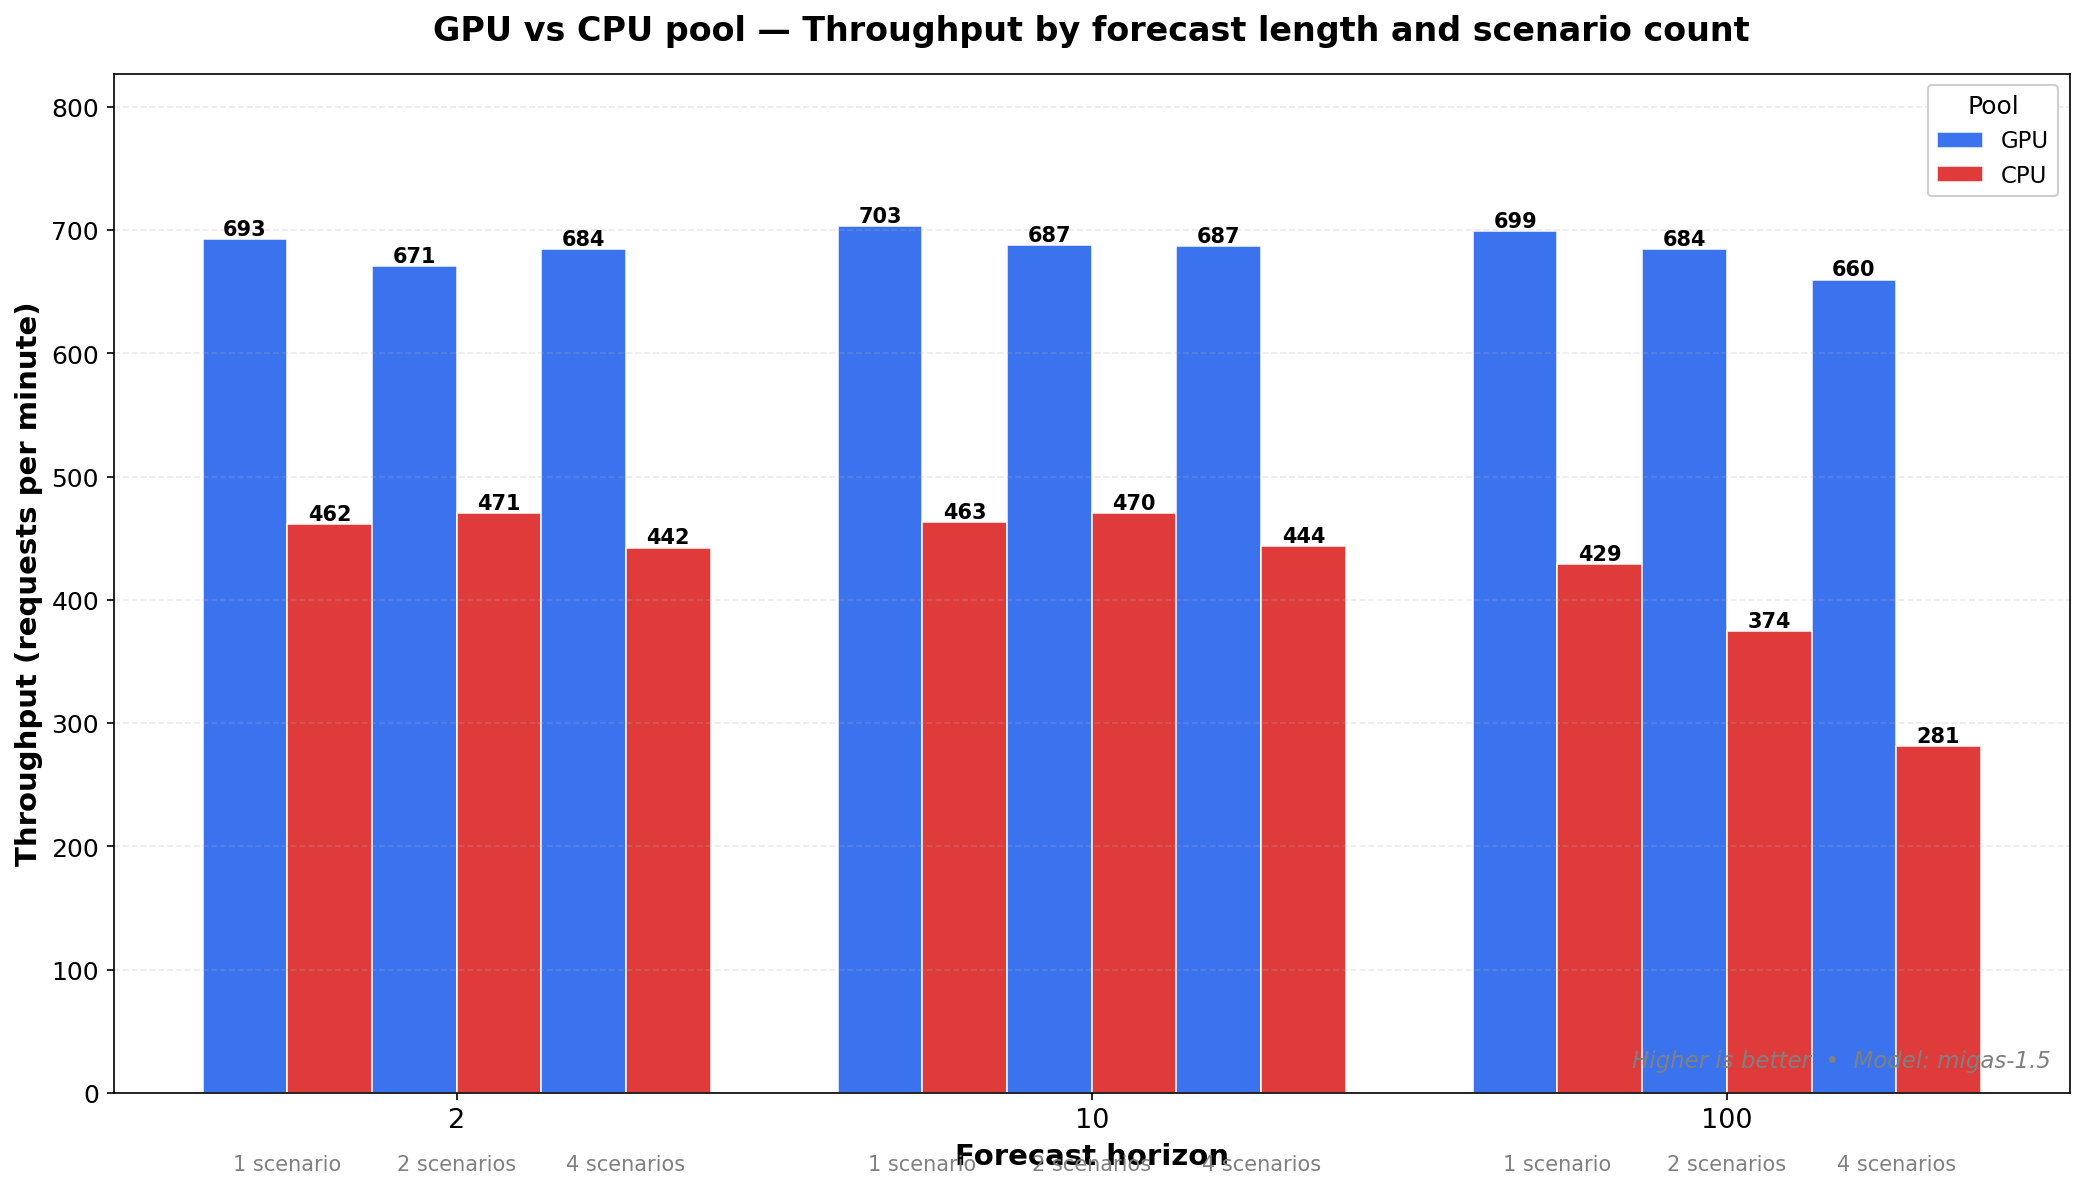
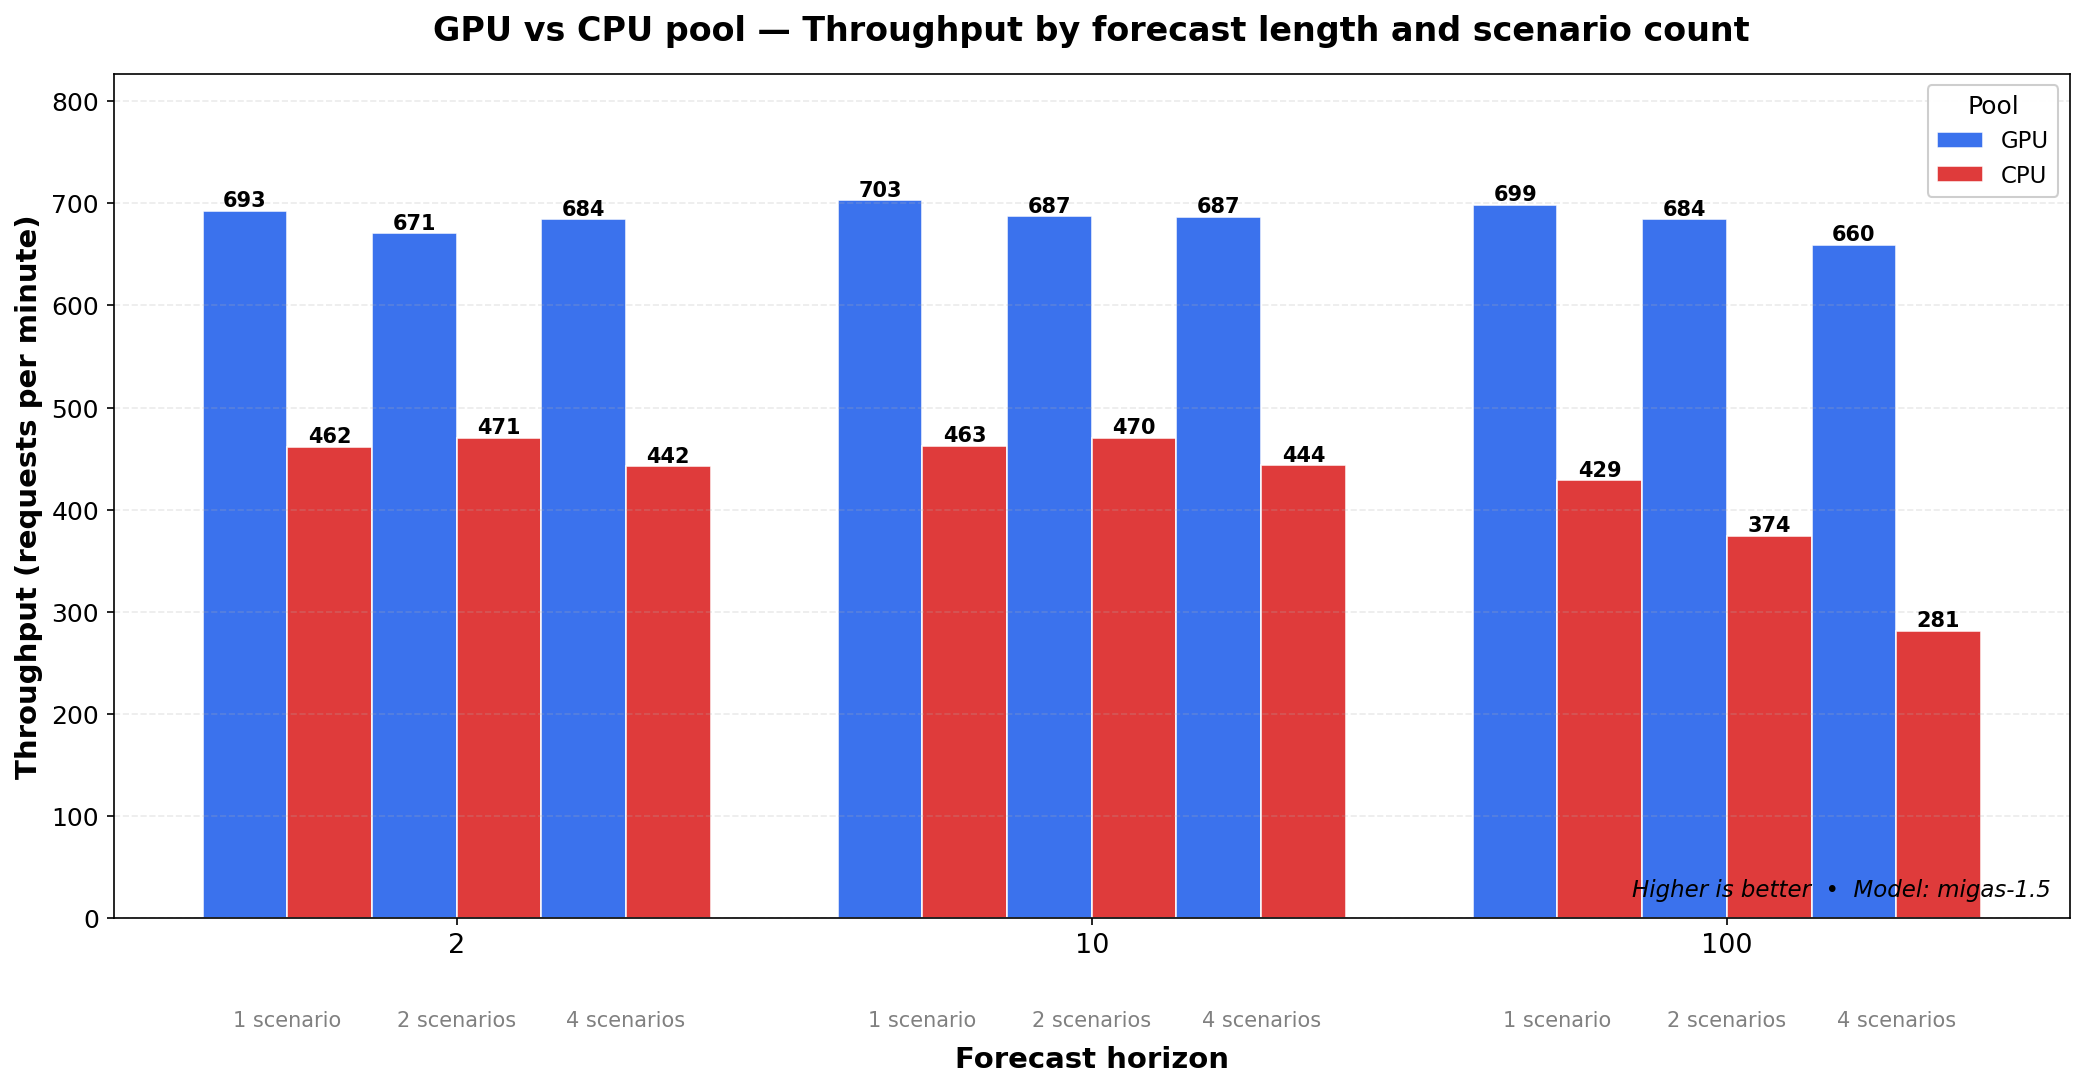
Add picture

diff --git a/chart_gpu8000_cpu8001.py b/chart_gpu8000_cpu8001.py
@@ -66,7 +66,7 @@ def create_chart(df: pd.DataFrame, output_path: str, title: str | None = None) -
                         fontweight="bold",
                     )
 
-    ax.set_xlabel("Forecast horizon", fontsize=14, fontweight="bold")
+    ax.set_xlabel("Forecast horizon", fontsize=14, fontweight="bold", labelpad=42)
     ax.set_ylabel("Throughput (requests per minute)", fontsize=14, fontweight="bold")
     ax.set_title(
         title or "GPU vs CPU pool — Throughput by forecast length and scenario count",
@@ -91,7 +91,7 @@ def create_chart(df: pd.DataFrame, output_path: str, title: str | None = None) -
         va="bottom",
         fontsize=11,
         style="italic",
-        color="gray",
+        color="black",
     )
     # Scenario labels below x-axis
     trans = ax.get_xaxis_transform()
@@ -102,7 +102,7 @@ def create_chart(df: pd.DataFrame, output_path: str, title: str | None = None) -
         for fl_idx in range(len(forecast_lengths)):
             ax.text(
                 scenario_base[fl_idx],
-                -0.06,
+                -0.11,
                 f"{scenario} scenario{'s' if scenario != 1 else ''}",
                 ha="center",
                 va="top",
@@ -110,7 +110,7 @@ def create_chart(df: pd.DataFrame, output_path: str, title: str | None = None) -
                 transform=trans,
                 color="gray",
             )
-    fig.tight_layout()
+    fig.tight_layout(rect=(0, 0.08, 1, 1))
     fig.savefig(output_path, dpi=150, bbox_inches="tight", facecolor="white")
     plt.close(fig)
     print(f"Saved: {output_path}")
